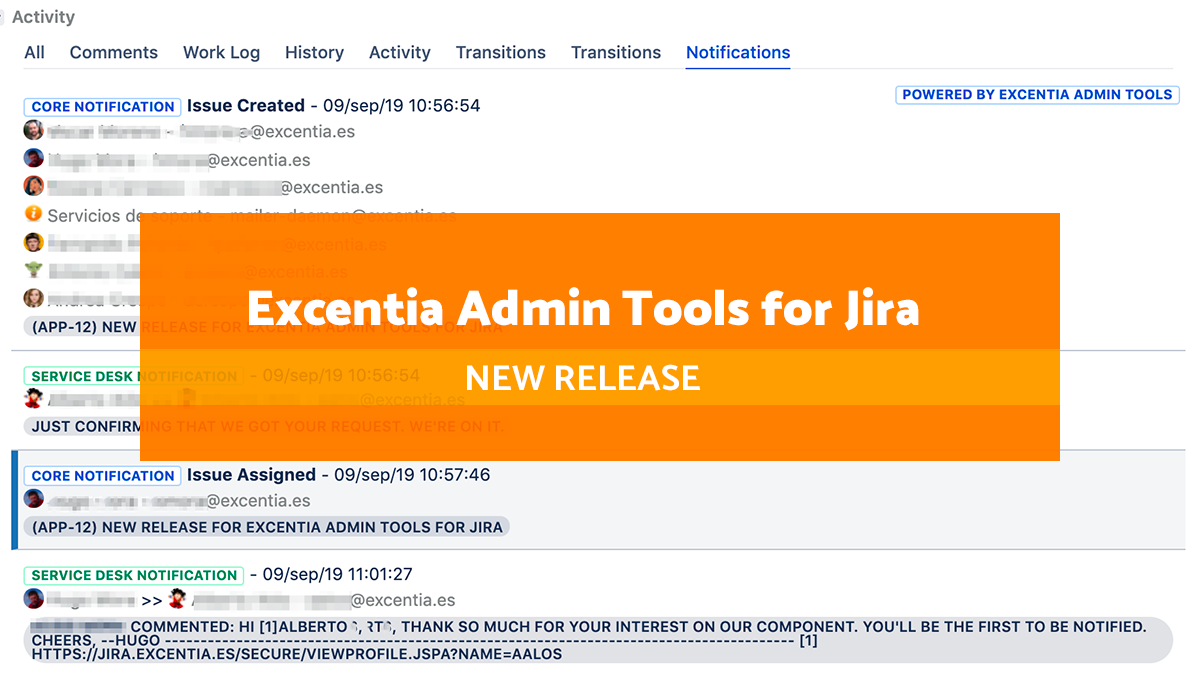
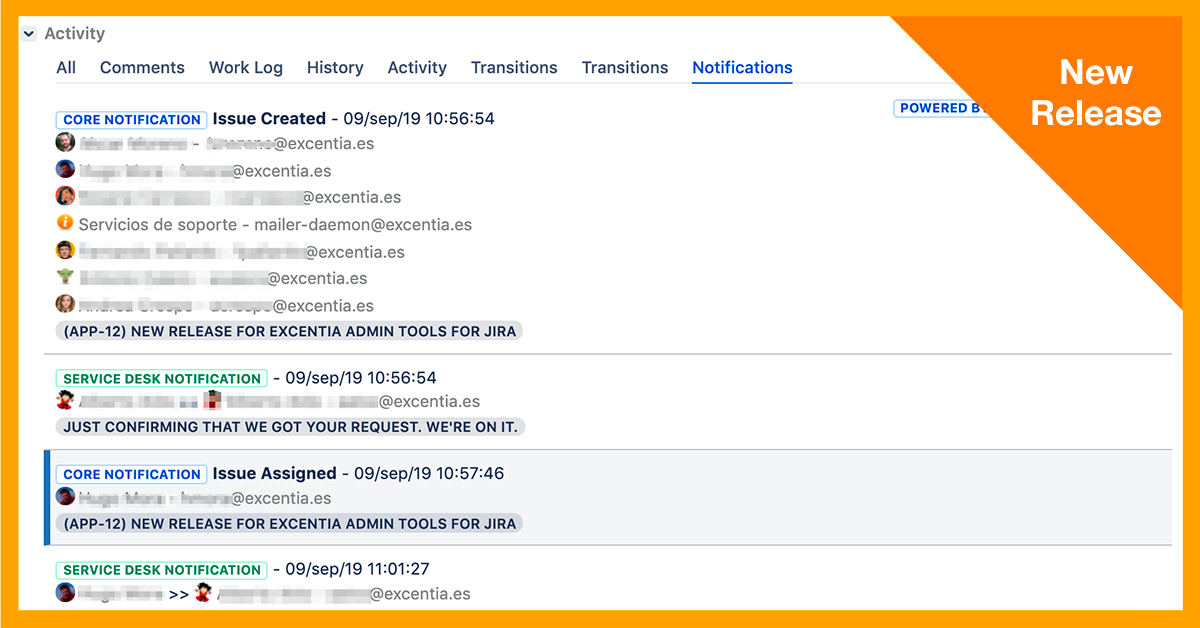
fix image and link

diff --git a/_posts/2020-06-02-excentia-admin-tools-2.7-released.md b/_posts/2020-06-02-excentia-admin-tools-2.7-released.md
@@ -26,6 +26,3 @@ Esta nueva versión incluye nuevas funcionalidades:
 Además se han incluido diferentes mejoras tanto en el validador de valor de un campo como en las condiciones y otras post funciones ya existentes.
 
 Lo tienes disponible en [este enlace](https://marketplace.atlassian.com/apps/1219118/excentia-admin-tools-for-jira) y seguro que te resultará de utilidad y mejorará tu gestión del día a día.
-
-
-![excentia admin tools 2.7](/img/posts/2020-06-02-excentia-admin-tools-2.7-released.png){:width="100%" .center-image}
